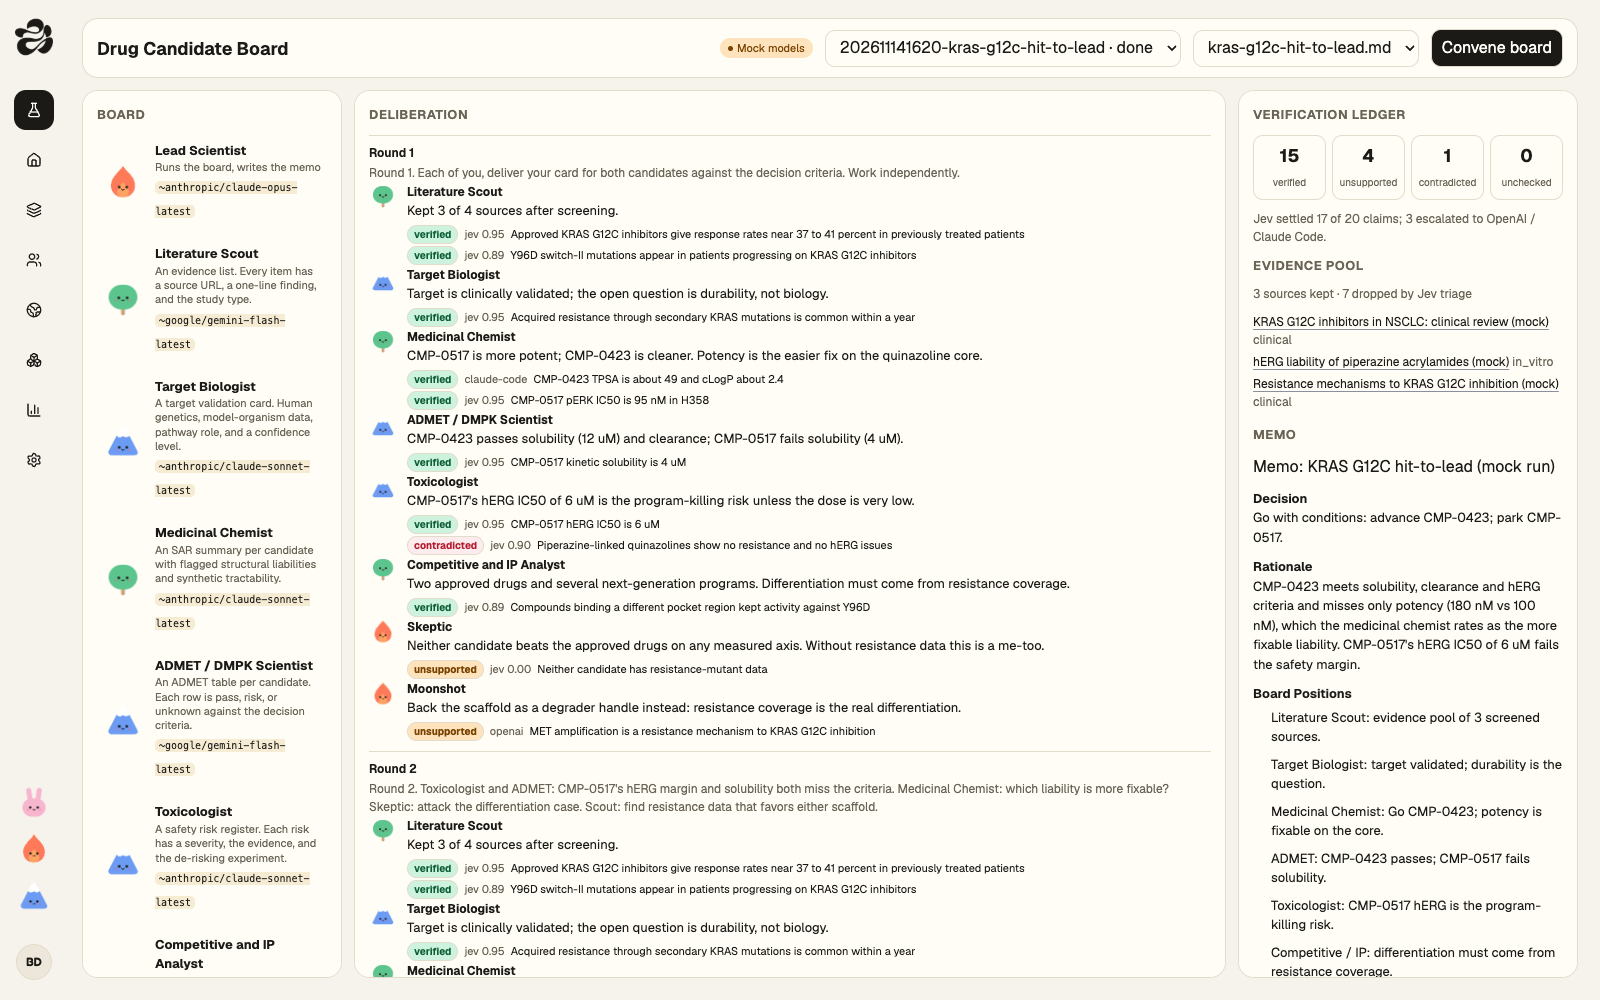
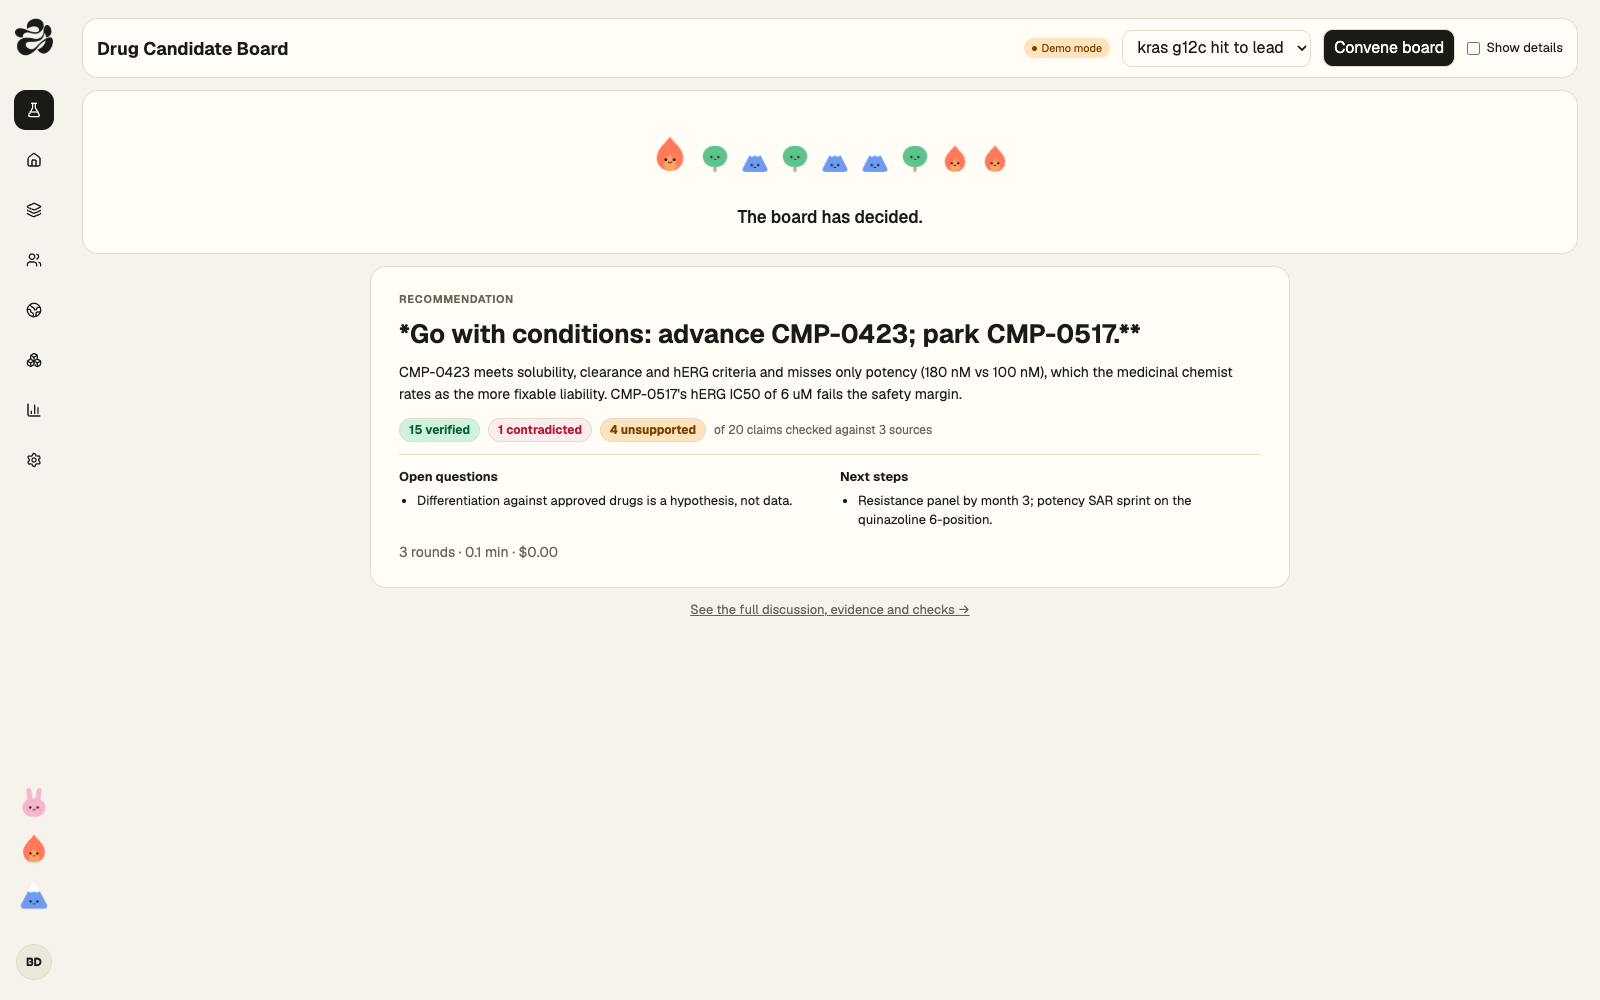
Board view: simple summary by default, Show details toggle for the full room

diff --git a/dashboard/src/views/BoardView.tsx b/dashboard/src/views/BoardView.tsx
@@ -1,5 +1,5 @@
-// Board room: the roster on the left, the live deliberation in the middle, evidence, verdicts and the
-// memo on the right. Everything comes from the engine's event stream, so it works mid-run and after restarts.
+// Board room. By default a plain summary: is the board working, and what did it decide and why can you trust it.
+// "Show details" opens the full room: roster, every reply with per-claim verdicts, the ledger, evidence and memo.
 import { useEffect, useMemo, useState } from "react"
 import { Streamdown } from "streamdown"
 import { Buddy, type Mood } from "@/components/Buddy"
@@ -7,6 +7,19 @@ import { get, memo as fetchMemo, post, type BoardEvent, type RosterMember, type 
 import "@/board/board.css"
 
 type Of<T extends BoardEvent["type"]> = Extract<BoardEvent, { type: T }>
+const VERDICTS: Verdict[] = ["verified", "unsupported", "contradicted", "unchecked"]
+
+/** "## Heading" sections of the memo, keyed by lowercase heading. */
+function sections(md: string): Record<string, string> {
+  const out: Record<string, string> = {}
+  for (const part of md.split(/^## /m).slice(1)) {
+    const [head, ...body] = part.split("\n")
+    out[head.trim().toLowerCase()] = body.join("\n").trim()
+  }
+  return out
+}
+const bullets = (s = "") => s.split("\n").map((l) => l.replace(/^\s*(?:[-*]|\d+\.)\s*/, "").trim()).filter(Boolean)
+const plain = (s = "") => s.replace(/[*_`]+/g, "").trim()
 
 export function BoardView() {
   const [status, setStatus] = useState<Status>()
@@ -18,8 +31,10 @@ export function BoardView() {
   const [runId, setRunId] = useState<string>()
   const [error, setError] = useState("")
   const [memoText, setMemoText] = useState("")
+  const [details, setDetails] = useState(() => localStorage.getItem("board.details") === "1")
   const events = useRunEvents(runId)
 
+  useEffect(() => localStorage.setItem("board.details", details ? "1" : "0"), [details])
   const refresh = () => get<RunSummary[]>("/api/runs").then((r) => { setRuns(r); setRunId((id) => id ?? r[0]?.id) })
   useEffect(() => {
     Promise.all([get<Status>("/api/status"), get<RosterMember[]>("/api/roster"), get<string[]>("/api/briefs")])
@@ -55,15 +70,18 @@ export function BoardView() {
   const uniqueEvidence = [...new Map(evidence.flatMap((e) => e.items).map((i) => [i.url, i])).values()]
   const dropped = evidence.reduce((n, e) => n + e.dropped, 0)
   const current = rounds.at(-1)?.[1]
+  const members = roster.filter((m) => m.role === "member")
   const live = !finished && events.length > 0
+  const done = events.find((e): e is Of<"run.finished"> => e.type === "run.finished")
+  const failed = events.find((e): e is Of<"run.failed"> => e.type === "run.failed")
   const title = (name: string) => roster.find((m) => m.name === name)?.title ?? name
   const mood = (m: RosterMember): Mood => {
     if (!live) return finished ? "happy" : "sleeping"
     if (m.role === "lead") return "alert"
     return current?.replies.some((r) => r.member === m.name) ? "happy" : "working"
   }
-  const done = events.find((e): e is Of<"run.finished"> => e.type === "run.finished")
-  const failed = events.find((e): e is Of<"run.failed"> => e.type === "run.failed")
+  const memo = sections(memoText)
+  const maxRounds = status?.meeting.max_rounds ?? 4
 
   if (offline) return (
     <div className="page"><div className="offline card-surface">
@@ -72,99 +90,139 @@ export function BoardView() {
     </div></div>
   )
 
+  // One plain sentence about where the run is.
+  const headline = !runId ? "Pick a brief and convene the board."
+    : failed ? "The run stopped with an error."
+    : done ? "The board has decided."
+    : memoWritten ? "Writing the memo…"
+    : current ? `Round ${rounds.at(-1)![0]} of up to ${maxRounds}: ${current.replies.length} of ${members.length} members have replied.`
+    : "Convening the board…"
+  const progress = done ? 1 : Math.min(0.95, ((rounds.length - 1) + (current ? current.replies.length / Math.max(1, members.length) : 0)) / maxRounds)
+
   return (
     <div className="page board">
       <header className="board-banner card-surface">
         <h1>Drug Candidate Board</h1>
-        {status && <span className="pill" data-kind={status.mock ? "warning" : "success"}>{status.mock ? "Mock models" : "Live models"}</span>}
-        <select aria-label="Run" value={runId ?? ""} onChange={(e) => setRunId(e.target.value || undefined)}>
-          {runs.length === 0 && <option value="">No runs yet</option>}
-          {runs.map((r) => <option key={r.id} value={r.id}>{r.id} · {r.status}</option>)}
-        </select>
+        {status?.mock && <span className="pill" data-kind="warning" title="No OPENROUTER_API_KEY set; scripted models">Demo mode</span>}
         <select aria-label="Brief" value={brief} onChange={(e) => setBrief(e.target.value)}>
-          {briefs.map((b) => <option key={b}>{b}</option>)}
+          {briefs.map((b) => <option key={b} value={b}>{b.replace(/\.md$/, "").replace(/-/g, " ")}</option>)}
         </select>
-        <button type="button" className="primary" onClick={start} disabled={!brief}>Convene board</button>
-        {runs.find((r) => r.id === runId)?.status === "paused" && (
-          <button type="button" onClick={() => runId && post(`/api/runs/${runId}/resume`).then(refresh)}>Resume</button>
-        )}
+        <button type="button" className="primary" onClick={start} disabled={!brief || live}>{live ? "Board in session" : "Convene board"}</button>
+        <label className="toggle">
+          <input type="checkbox" checked={details} onChange={(e) => setDetails(e.target.checked)} />
+          <span>Show details</span>
+        </label>
       </header>
       {error && <p className="pill" data-kind="danger">{error}</p>}
 
-      <section className="card-surface" aria-label="Roster">
-        <h2>Board</h2>
-        {roster.map((m) => (
-          <div key={m.name} className="member" data-speaking={(live && m.role === "lead") || undefined} title={m.deliverable}>
-            <Buddy seed={m.name} mood={mood(m)} size={40} />
-            <div>
-              <strong>{m.title}</strong>
-              <span>{m.role === "lead" ? "Runs the board, writes the memo" : m.deliverable}</span>
-              <code>{m.modelId}</code>
-            </div>
-          </div>
-        ))}
-        {status && (
-          <p className="muted small">
-            Limits: {status.meeting.max_rounds} rounds · {status.meeting.max_minutes} min · ${status.meeting.max_usd}
-          </p>
-        )}
-      </section>
-
-      <section className="card-surface" aria-label="Deliberation">
-        <h2>Deliberation {live && <span className="pill" data-kind="info">live</span>}</h2>
-        {!runId && <p className="muted">Pick a brief and convene the board.</p>}
-        {rounds.map(([n, r]) => (
-          <div key={n}>
-            <div className="round-head">
-              Round {n}{r.head?.final ? " · final positions" : ""}
-              <p>{r.head?.message}</p>
-            </div>
-            {r.replies.map((reply) => (
-              <div key={reply.key} className="reply">
-                <Buddy seed={reply.member} mood="happy" size={28} />
-                <div>
-                  <b>{title(reply.member)}</b>
-                  <p>{reply.text}</p>
-                  <ul className="verdicts">
-                    {r.claims.filter((c) => c.member === reply.member).map((c) => (
-                      <li key={c.key} title={c.note}>
-                        <span className={`v v-${c.verdict}`}>{c.verdict}</span>
-                        <span className="muted">{c.checker}{c.p !== undefined ? ` ${c.p.toFixed(2)}` : ""}</span>
-                        <span>{c.claim}</span>
-                      </li>
-                    ))}
-                  </ul>
-                </div>
-              </div>
-            ))}
-          </div>
-        ))}
-        {events.filter((e): e is Of<"constraint"> => e.type === "constraint").map((c) => (
-          <p key={c.key} className="pill" data-kind="warning">Wrap up: {c.detail}</p>
-        ))}
-        {done && <p className="muted small">Finished in {done.minutes.toFixed(1)} min · ${done.usd.toFixed(3)}</p>}
+      <section className="card-surface summary" aria-label="Status">
+        <div className="crew">
+          {roster.map((m) => <span key={m.name} title={m.title}><Buddy seed={m.name} mood={mood(m)} size={m.role === "lead" ? 44 : 34} /></span>)}
+        </div>
+        <p className="headline">{headline}</p>
+        {runId && !done && !failed && <div className="progress" aria-hidden="true"><span style={{ width: `${progress * 100}%` }} /></div>}
         {failed && <p className="pill" data-kind="danger">{failed.error}</p>}
       </section>
 
-      <section className="card-surface" aria-label="Verification and memo">
-        <h2>Verification ledger</h2>
-        <div className="ledger-stats">
-          {(["verified", "unsupported", "contradicted", "unchecked"] as Verdict[]).map((v) => (
-            <div key={v}><strong>{count(v)}</strong><span>{v}</span></div>
-          ))}
+      {memoText && (
+        <section className="card-surface decision" aria-label="Decision">
+          <span className="eyebrow">Recommendation</span>
+          <h2 className="decision-text">{plain(bullets(memo["decision"])[0]) || "See memo"}</h2>
+          {memo["rationale"] && <p>{plain(memo["rationale"])}</p>}
+          <p className="trust">
+            <span className="v v-verified">{count("verified")} verified</span>
+            {count("contradicted") > 0 && <span className="v v-contradicted">{count("contradicted")} contradicted</span>}
+            {count("unsupported") > 0 && <span className="v v-unsupported">{count("unsupported")} unsupported</span>}
+            <span className="muted small">of {claims.length} claims checked against {uniqueEvidence.length} sources</span>
+          </p>
+          <div className="decision-lists">
+            {memo["unresolved tensions"] && <div><h3>Open questions</h3><ul>{bullets(memo["unresolved tensions"]).map((b) => <li key={b}>{plain(b)}</li>)}</ul></div>}
+            {memo["next actions"] && <div><h3>Next steps</h3><ul>{bullets(memo["next actions"]).map((b) => <li key={b}>{plain(b)}</li>)}</ul></div>}
+          </div>
+          {done && <p className="muted small">{rounds.length} rounds · {done.minutes.toFixed(1)} min · ${done.usd.toFixed(2)}</p>}
+        </section>
+      )}
+
+      {!details && runId && (
+        <button type="button" className="link-button" onClick={() => setDetails(true)}>See the full discussion, evidence and checks →</button>
+      )}
+
+      {details && (
+        <div className="board-grid">
+          <section className="card-surface" aria-label="Roster">
+            <h2>Board</h2>
+            <select aria-label="Run" value={runId ?? ""} onChange={(e) => setRunId(e.target.value || undefined)}>
+              {runs.length === 0 && <option value="">No runs yet</option>}
+              {runs.map((r) => <option key={r.id} value={r.id}>{r.id} · {r.status}</option>)}
+            </select>
+            {runs.find((r) => r.id === runId)?.status === "paused" && (
+              <button type="button" onClick={() => runId && post(`/api/runs/${runId}/resume`).then(refresh)}>Resume run</button>
+            )}
+            {roster.map((m) => (
+              <div key={m.name} className="member" title={m.deliverable}>
+                <Buddy seed={m.name} mood={mood(m)} size={40} />
+                <div>
+                  <strong>{m.title}</strong>
+                  <span>{m.role === "lead" ? "Runs the board, writes the memo" : m.deliverable}</span>
+                  <code>{m.modelId}</code>
+                </div>
+              </div>
+            ))}
+            {status && <p className="muted small">Limits: {status.meeting.max_rounds} rounds · {status.meeting.max_minutes} min · ${status.meeting.max_usd}</p>}
+          </section>
+
+          <section className="card-surface" aria-label="Deliberation">
+            <h2>Discussion {live && <span className="pill" data-kind="info">live</span>}</h2>
+            {rounds.map(([n, r]) => (
+              <div key={n}>
+                <div className="round-head">
+                  Round {n}{r.head?.final ? " · final positions" : ""}
+                  <p>{r.head?.message}</p>
+                </div>
+                {r.replies.map((reply) => (
+                  <div key={reply.key} className="reply">
+                    <Buddy seed={reply.member} mood="happy" size={28} />
+                    <div>
+                      <b>{title(reply.member)}</b>
+                      <p>{reply.text}</p>
+                      <ul className="verdicts">
+                        {r.claims.filter((c) => c.member === reply.member).map((c) => (
+                          <li key={c.key} title={c.note}>
+                            <span className={`v v-${c.verdict}`}>{c.verdict}</span>
+                            <span className="muted">{c.checker}{c.p !== undefined ? ` ${c.p.toFixed(2)}` : ""}</span>
+                            <span>{c.claim}</span>
+                          </li>
+                        ))}
+                      </ul>
+                    </div>
+                  </div>
+                ))}
+              </div>
+            ))}
+            {events.filter((e): e is Of<"constraint"> => e.type === "constraint").map((c) => (
+              <p key={c.key} className="pill" data-kind="warning">Wrap up: {c.detail}</p>
+            ))}
+          </section>
+
+          <section className="card-surface" aria-label="Verification and memo">
+            <h2>Verification ledger</h2>
+            <div className="ledger-stats">
+              {VERDICTS.map((v) => <div key={v}><strong>{count(v)}</strong><span>{v}</span></div>)}
+            </div>
+            <p className="muted small">
+              Jev settled {claims.filter((c) => c.checker === "jev").length} of {claims.length} claims;
+              {" "}{claims.filter((c) => c.checker !== "jev").length} escalated to OpenAI / Claude Code.
+            </p>
+            <h2>Evidence pool</h2>
+            <p className="muted small">{uniqueEvidence.length} sources kept · {dropped} dropped by Jev triage</p>
+            <ul className="evidence">
+              {uniqueEvidence.map((i) => <li key={i.url}><a href={i.url} target="_blank" rel="noreferrer">{i.title}</a> <span className="muted">{i.studyType}</span></li>)}
+            </ul>
+            <h2>Full memo</h2>
+            {memoText ? <div className="memo"><Streamdown>{memoText}</Streamdown></div> : <p className="muted small">Written when the board finishes.</p>}
+          </section>
         </div>
-        <p className="muted small">
-          Jev settled {claims.filter((c) => c.checker === "jev").length} of {claims.length} claims;
-          {" "}{claims.filter((c) => c.checker !== "jev").length} escalated to OpenAI / Claude Code.
-        </p>
-        <h2>Evidence pool</h2>
-        <p className="muted small">{uniqueEvidence.length} sources kept · {dropped} dropped by Jev triage</p>
-        <ul className="evidence">
-          {uniqueEvidence.map((i) => <li key={i.url}><a href={i.url} target="_blank" rel="noreferrer">{i.title}</a> <span className="muted">{i.studyType}</span></li>)}
-        </ul>
-        <h2>Memo</h2>
-        {memoText ? <div className="memo"><Streamdown>{memoText}</Streamdown></div> : <p className="muted small">Written when the board finishes.</p>}
-      </section>
+      )}
     </div>
   )
 }

diff --git a/dashboard/src/board/board.css b/dashboard/src/board/board.css
@@ -1,12 +1,29 @@
-.board { display: grid; grid-template-columns: 260px minmax(0, 1fr) 340px; gap: 12px; min-height: 0; overflow: hidden; }
-.board > section { display: flex; flex-direction: column; gap: 10px; min-height: 0; overflow: auto; padding: 14px; }
+.board { display: flex; flex-direction: column; gap: 12px; min-height: 0; overflow: auto; }
+.board-grid { display: grid; grid-template-columns: 260px minmax(0, 1fr) 340px; gap: 12px; height: 78vh; flex-shrink: 0; }
+.board-grid > section { display: flex; flex-direction: column; gap: 10px; min-height: 0; overflow: auto; padding: 14px; }
+.board-grid select, .board-grid button { border: 1px solid var(--edge); border-radius: 10px; padding: 6px 10px; background: var(--surface); }
+.toggle { display: flex; align-items: center; gap: 6px; font-size: 13px; cursor: pointer; user-select: none; }
+.summary { max-width: 920px; width: 100%; align-self: center; padding: 20px; display: flex; flex-direction: column; align-items: center; gap: 12px; text-align: center; }
+.crew { display: flex; align-items: flex-end; gap: 6px; }
+.headline { font-size: 17px; font-weight: 550; }
+.progress { width: min(420px, 80%); height: 6px; border-radius: 99px; background: var(--edge); overflow: hidden; }
+.progress span { display: block; height: 100%; background: var(--text); transition: width .5s ease; }
+.decision { padding: 24px 28px; display: flex; flex-direction: column; gap: 12px; max-width: 920px; width: 100%; align-self: center; }
+.eyebrow { font-size: 11px; font-weight: 650; text-transform: uppercase; letter-spacing: .06em; color: var(--text-muted); }
+.board .decision-text { font-size: 26px; font-weight: 650; line-height: 1.2; text-transform: none; letter-spacing: 0; color: var(--text); }
+.decision p { font-size: 14px; line-height: 1.55; }
+.trust { display: flex; flex-wrap: wrap; align-items: center; gap: 8px; }
+.trust .v { font-size: 12px; padding: 2px 9px; }
+.decision-lists { display: grid; grid-template-columns: 1fr 1fr; gap: 20px; border-top: 1px solid var(--edge); padding-top: 12px; }
+.decision-lists h3 { font-size: 13px; font-weight: 650; margin-bottom: 4px; }
+.decision-lists ul { padding-left: 18px; font-size: 13px; line-height: 1.5; list-style: disc; }
+.link-button { align-self: center; background: none; border: 0; font-size: 13px; text-decoration: underline; cursor: pointer; color: var(--text-muted); }
 .board h2 { font-size: 13px; font-weight: 650; text-transform: uppercase; letter-spacing: .04em; color: var(--text-muted); }
 .board-banner { grid-column: 1 / -1; display: flex; align-items: center; gap: 12px; padding: 10px 14px; }
 .board-banner h1 { font-size: 18px; font-weight: 650; margin-right: auto; }
 .board-banner select, .board-banner button { border: 1px solid var(--edge); border-radius: 10px; padding: 6px 10px; background: var(--surface); }
 .board-banner button.primary { background: var(--text); color: var(--surface); }
 .member { display: grid; grid-template-columns: 44px 1fr; gap: 8px; align-items: center; padding: 6px; border-radius: 12px; }
-.member[data-speaking] { background: #fff4d6; }
 .member strong { display: block; font-size: 13px; }
 .member span { display: block; font-size: 11px; color: var(--text-muted); line-height: 1.3; }
 .member code { display: block; font-size: 10px; white-space: nowrap; overflow: hidden; text-overflow: ellipsis; }

diff --git a/README.md b/README.md
@@ -6,6 +6,8 @@ The pattern follows IndyDevDan's "CEO and board" video (brief in, memo out, cons
 
 ![Board view](docs/board.png)
 
+The Board view shows a plain summary (progress, recommendation, how many claims checked out, open questions, next steps). Tick **Show details** for the full roster, discussion with per-claim verdicts, evidence pool and memo ([screenshot](docs/board-details.png)).
+
 > **Skeleton.** It runs end to end today on scripted mock models (no keys). Add keys to `.env` to make it live.
 
 ```
